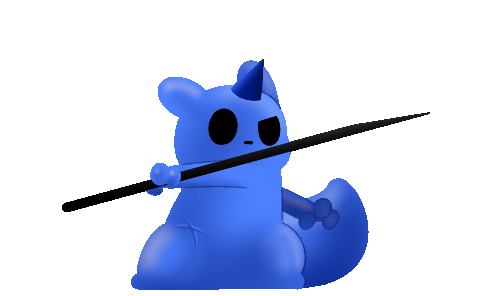
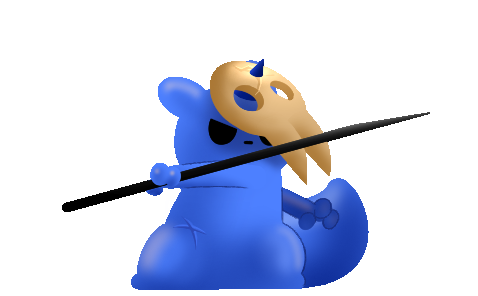
Updated Lunter select illust

Changed region(s): [[0.41, 0.1824, 0.8494, 0.6385], [0.8494, 0.3649, 0.9079, 0.3953]]

diff --git a/Cat/LonkSupplement.cs b/Cat/LonkSupplement.cs
@@ -1,0 +1,24 @@
+using System;
+using System.Collections.Generic;
+using System.Linq;
+using System.Text;
+using System.Threading.Tasks;
+
+namespace LancerRemix.Cat
+{
+    internal class LonkSupplement : LancerSupplement
+    {
+        public LonkSupplement()
+        {
+        }
+
+        public LonkSupplement(Player player) : base(player)
+        {
+        }
+
+        protected override void SetLanceCooltime()
+        {
+            base.SetLanceCooltime();
+        }
+    }
+}

diff --git a/Cat/ModifyCat.cs b/Cat/ModifyCat.cs
@@ -108,6 +108,10 @@ namespace LancerRemix.Cat
             switch (self.slugcatStats.throwingSkill)
             {
                 case 0:
+                    catSubs.Add(self.playerState, new LonkSupplement(self));
+                    catDecos.Add(self.playerState, new LancerDecoration(self));
+                    break;
+
                 default:
                 case 1:
                     catSubs.Add(self.playerState, new LancerSupplement(self));

diff --git a/LancerPlugin.cs b/LancerPlugin.cs
@@ -34,7 +34,7 @@ namespace LancerRemix
     {
         public const string PLUGIN_ID = "com.rainworldgame.topicular.lancer.plugin";
         public const string PLUGIN_NAME = "Lancer";
-        public const string PLUGIN_VERSION = "1.0.0.2";
+        public const string PLUGIN_VERSION = "1.0.0.3";
 
         private static bool init = false;
         internal static ManualLogSource LogSource;

diff --git a/Cat/LancerSupplement.cs b/Cat/LancerSupplement.cs
@@ -388,7 +388,7 @@ namespace LancerRemix.Cat
             SetLanceCooltime();
         }
 
-        protected void SetLanceCooltime() => lanceTimer = -24;
+        protected virtual void SetLanceCooltime() => lanceTimer = -24;
 
         protected float GetLanceDamage(int throwingSkill)
         {
